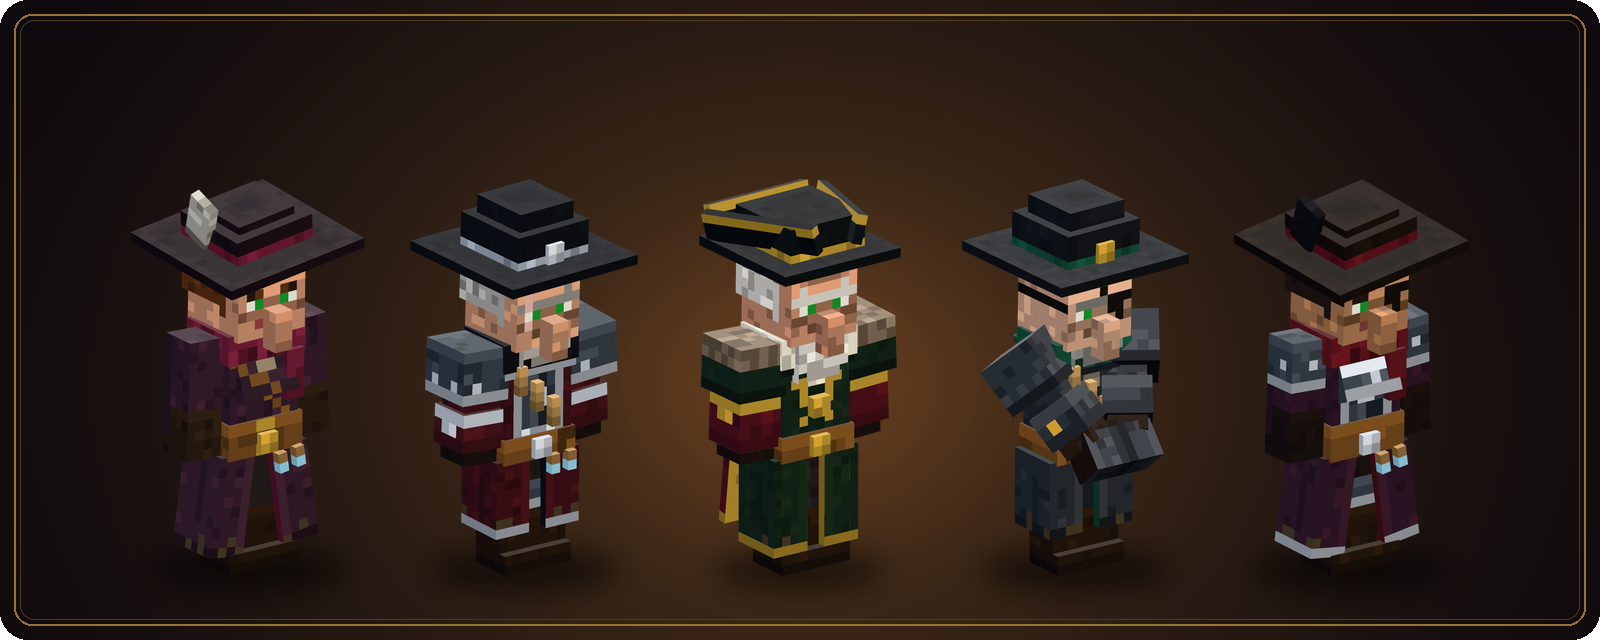
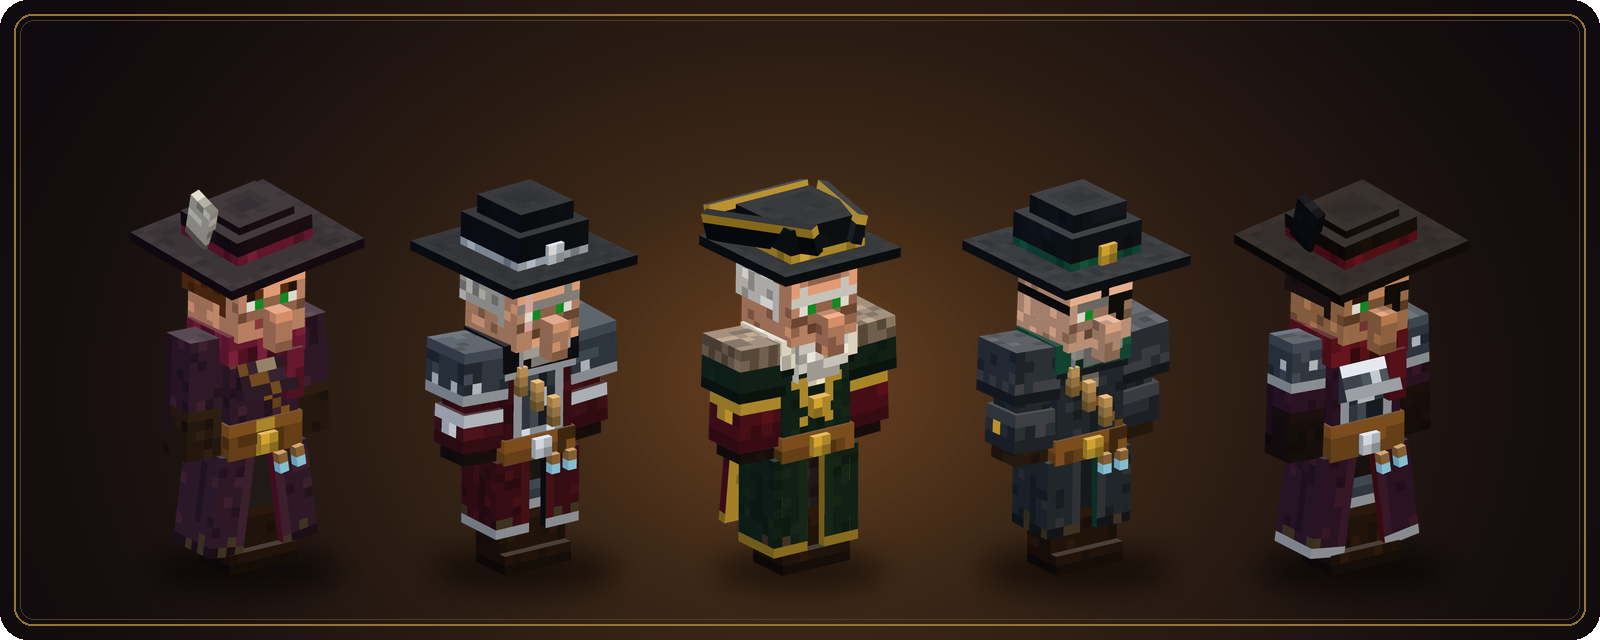
docs: list the notoriety command, tighten the copy and redo four renders

Changed region(s): [[0.5938, 0.3125, 0.75, 0.75]]

diff --git a/README.md b/README.md
@@ -48,7 +48,7 @@ deed to prove each stage.
 your coffin by day. Then hold it against any member who challenges you for it.
 
 <p align="center">
-<img src="https://raw.githubusercontent.com/grabartley/minecraft-nightborn/main/docs/images/creatures.png" alt="The night terror, a vampire bat, a ghostly familiar and a tame hawk" width="800">
+<img src="https://raw.githubusercontent.com/grabartley/minecraft-nightborn/main/docs/images/creatures.png" alt="The Night Terror, a vampire bat, a ghostly familiar and a tame hawk" width="800">
 </p>
 
 ## Or hunt them down
@@ -60,15 +60,15 @@ your coffin by day. Then hold it against any member who challenges you for it.
 - **Folklore works.** Stakes, silver, garlic, crucifixes and holy water all do what the old stories say. Coat a blade,
 string up garlic, and load a crossbow with stake, silver or holy water bolts.
 - **Find the one among you.** A hand mirror shows no vampire, and garlic or a raised crucifix makes one flinch.
-- **Join the guild.** Stake a vampire to prove yourself and a Guild Master swears you in. Rise from Initiate to Hunter,
-Veteran and Master.
+- **Join the guild.** Stake a vampire to prove yourself and a Guild Master swears you in and hands you a hunter's
+journal. Rise from Initiate to Hunter, Veteran and Master.
 - **Walk two of four paths.** The Faithful pray, bless blades and call down holy light. Slayers dodge, lunge and throw
 stakes. Trappers lay snares and bait and net bats out of the air. Seekers read a kill for the vampire behind it and
 see through every veil.
 - **Take contracts.** Find a hunter camp and its Guild Master sells gear and writes contracts, each with a rough map
 of where the house lies.
 
-## A world that notices
+## Households and villages
 
 Vampires are rare, and each one is someone, with a name, a title and a temper. They live together in households that
 wake at dusk, light the candles, talk, quarrel, read and play the gramophone, then sleep out the day in their coffins
@@ -78,7 +78,7 @@ with a thrall or two on guard.
 overgrown manors, and a rare pale castle on a mountain top.
 - **Villages remember.** Feed where you can be seen and a village learns your face, shuts its doors after dark, hangs
 garlic and sends for hunters.
-- **So do your enemies.** A named vampire or hunter who gets away from you may come back as your nemesis, stronger each
+- **Enemies remember too.** A named vampire or hunter who gets away from you may come back as your nemesis, stronger each
 time.
 - **Make it yours.** Coffins, candlelit furniture, a gramophone with gothic music discs, gothic building blocks,
 clothing you can dye and enchant, and accessories in eight slots.
@@ -95,8 +95,9 @@ At night the game's music gives way to organ, harpsichord, strings and choir.
 <img src="https://raw.githubusercontent.com/grabartley/minecraft-nightborn/main/docs/images/bosses.png" alt="The Eldest and the Grand Inquisitor" width="800">
 </p>
 
-- **The Eldest.** The oldest vampire of all, with every power of every bloodline. Hunters who gather the relics hidden in
-four kinds of house can build an altar and call it with a chalice of blood at night. It fights on foot, then in the air, then
+- **The Eldest.** The oldest vampire of all, with every power of every bloodline. Anyone who gathers the relics hidden in
+four kinds of house can build an altar and call it with a chalice of blood at night, and it turns on a vampire who
+dares to. It fights on foot, then in the air, then
 enraged with its eyes blazing. One also waits at the top of every mountain castle.
 - **The Grand Inquisitor.** Kill too many hunters and the head of the guild comes for you. A bell tolls nearer each
 dusk, then he seals you in a ring of holy light and fights through the Hunt, the Faith and the Pyre until one of you
@@ -120,7 +121,7 @@ powers, `H` levitates and `J` switches to the turning bite.
 
 Almost every number in the mod is a setting, from how much the sun hurts to how often vampire houses appear. Change
 them on the settings screen in Mod Menu, or with `/nightborn config`. On a server, only operators can. How much blood
-and gore you see is your own choice, and every player can set it.
+and gore you see is your own choice, and every player can set it on that same screen.
 
 <details>
 <summary><b>Commands</b></summary>
@@ -137,6 +138,7 @@ Every `/nightborn` command needs operator permission.
 /nightborn player <targets> info
 /nightborn player <targets> stage [<stage>]
 /nightborn player <targets> rank [<rank>]
+/nightborn player <targets> notoriety [<value>]
 /nightborn player <targets> skills <vampire|hunter> [points <n>|reset]
 /nightborn familiar <targets> release
 /nightborn thrall release <thralls>
@@ -152,9 +154,8 @@ manage it.
 <details>
 <summary><b>Works well with</b></summary>
 
-Not needed.
-
-- **[Mod Menu](https://modrinth.com/mod/modmenu)** adds the settings screen to your mods list.
+- **[Mod Menu](https://modrinth.com/mod/modmenu)** adds the settings screen to your mods list. Without it, operators
+can still change every server setting with commands.
 
 </details>
 
@@ -189,8 +190,8 @@ How every part of the mod is meant to work is written down in the [product requi
 
 Nightborn is released under the [MIT License](LICENSE).
 
-The music and many of the sounds are real recordings, each in the public domain or under the licence shown. Every other
-asset is original work.
+The music and many of the sounds are real recordings, each in the public domain or under the licence shown. Everything
+else is original work or comes from the base game.
 
 <details>
 <summary><b>Music</b></summary>
